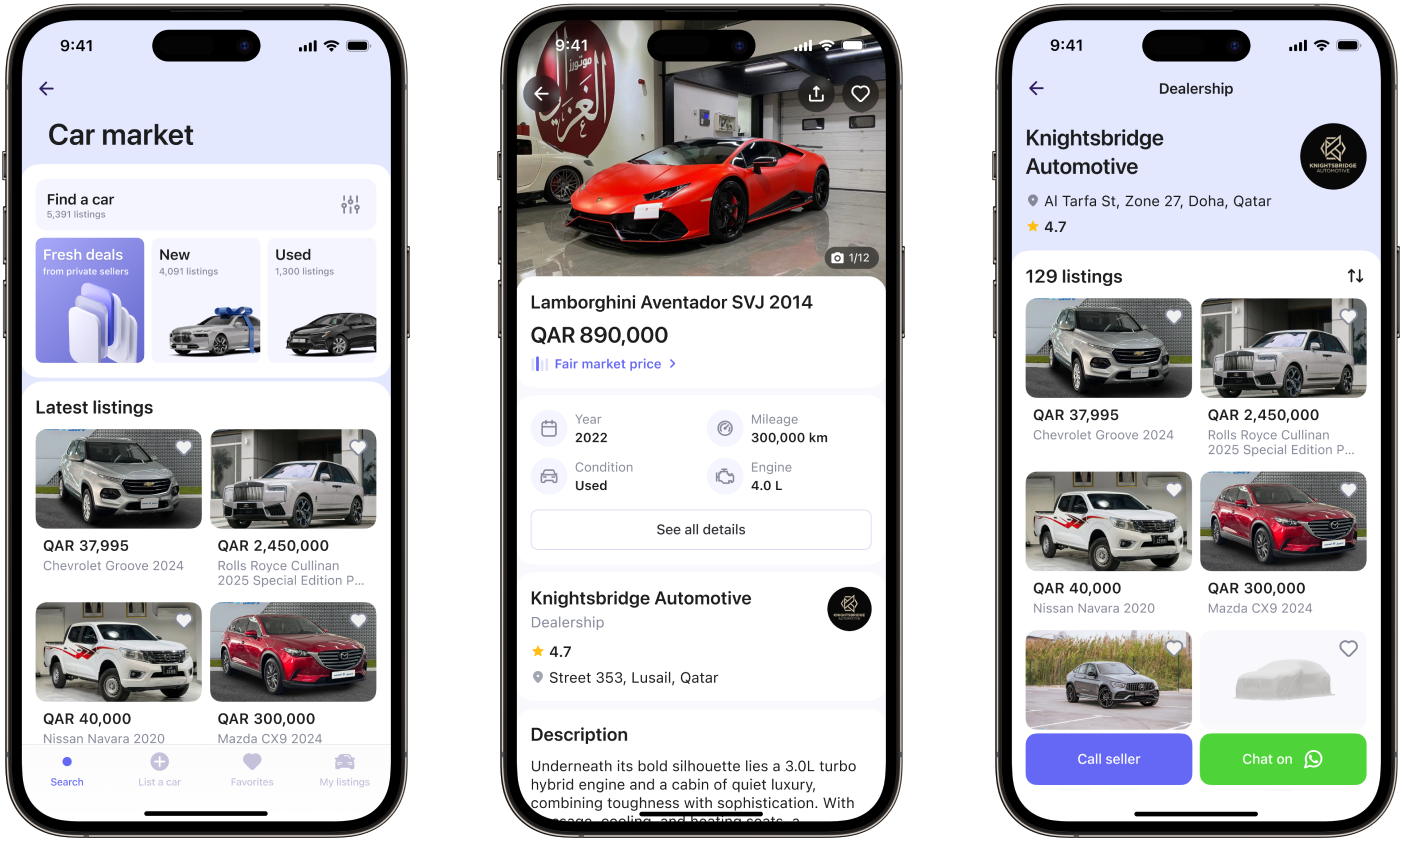
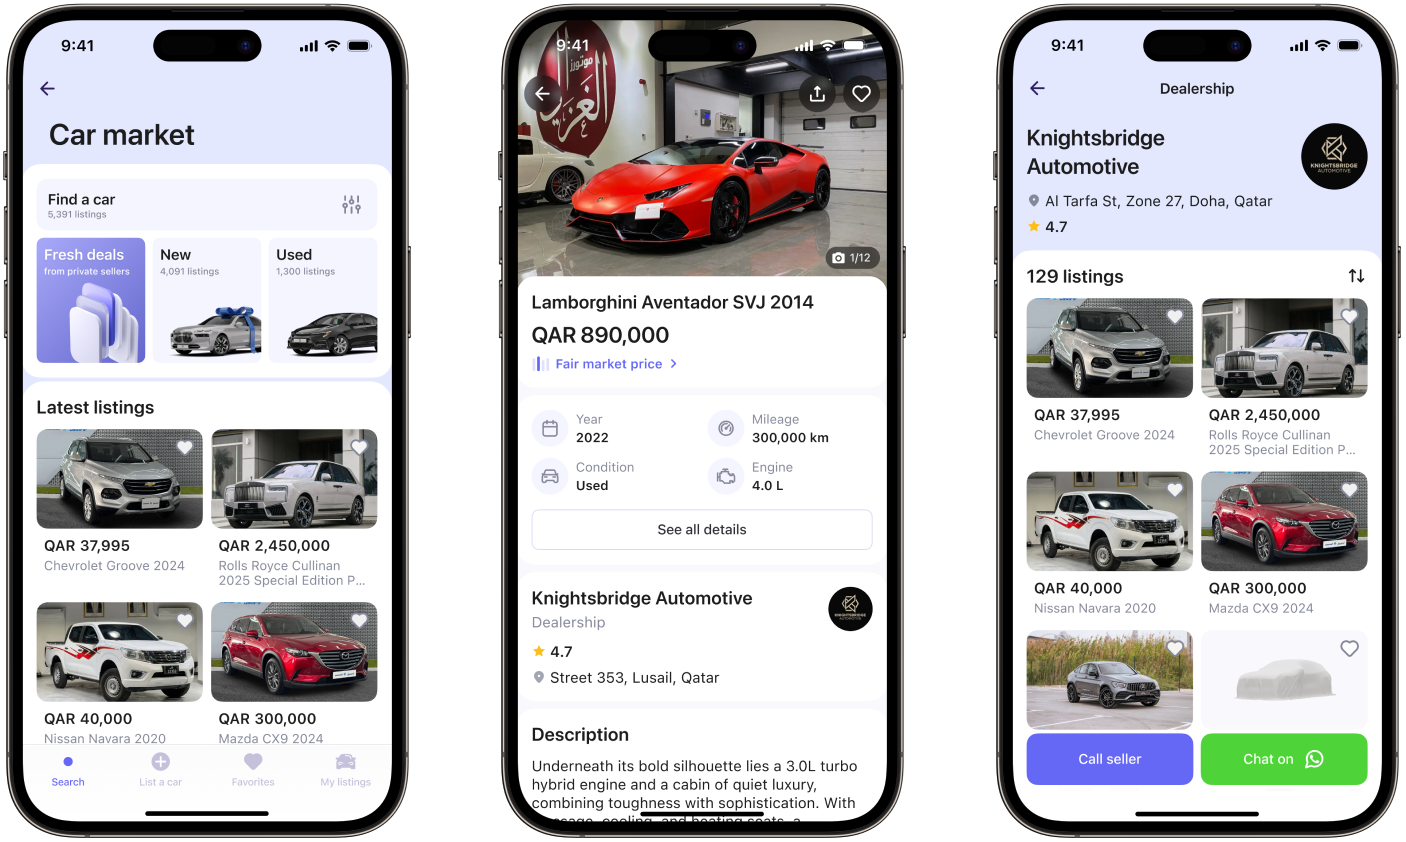
Add files via upload

diff --git a/index.html b/index.html
@@ -255,13 +255,13 @@
     <p class="statement">Designing complex B2B and B2C digital products for 8 years across e-commerce, marketplaces, insurance, and super apps. Previously at QIC, Skillbox, Ozon and TSUM. Open for work.</p>
 
     <ul class="jump">
-      <li><a href="#qic"><span>Work (QIC)</span>↓</a></li>
-      <li><a href="#skillbox"><span>Skillbox English</span>↓</a></li>
-      <li><a href="#ozon"><span>Ozon App</span>↓</a></li>
-      <li><a href="#tsum"><span>TSUM B2B apps</span>↓</a></li>
-      <li><a href="#pet"><span>Pet projects</span>↓</a></li>
-      <li><a href="#branding"><span>Branding Kalmykia</span>↓</a></li>
-      <li><a href="#about"><span>About me</span>↓</a></li>
+      <li><a href="#qic"><span>Work (QIC)</span></a></li>
+      <li><a href="#skillbox"><span>Skillbox English</span></a></li>
+      <li><a href="#ozon"><span>Ozon App</span></a></li>
+      <li><a href="#tsum"><span>TSUM B2B apps</span></a></li>
+      <li><a href="#pet"><span>Pet projects</span></a></li>
+      <li><a href="#branding"><span>Branding Kalmykia</span></a></li>
+      <li><a href="#about"><span>About me</span></a></li>
     </ul>
 
     <div class="ornament" aria-hidden="true"></div>
@@ -275,11 +275,11 @@
       <div class="cards">
         <a class="card" href="cases/qic-app.html">
           <div class="cover"><img src="images/Cover%20QIC%20App.png" alt="QIC App: Insurance 360 and City screens"></div>
-          <h4><span>QIC App</span> ↗</h4><p>Insurance super app · Product design</p>
+          <h4><span>QIC App</span></h4><p>Insurance super app · Product design</p>
         </a>
         <div class="card">
           <a href="https://qic.online/en/market" target="_blank" rel="noopener"><div class="cover"><img src="images/Cover%20QIC%20online%20market.png" alt="qic.online market landing page"></div></a>
-          <h4 class="links"><a href="https://qic.online/en/market" target="_blank" rel="noopener"><span>qic.online market</span> ↗</a><a href="https://partner.qic.online/en" target="_blank" rel="noopener"><span>Partner portal</span> ↗</a></h4>
+          <h4 class="links"><a href="https://qic.online/en/market" target="_blank" rel="noopener"><span>qic.online market</span></a><a href="https://partner.qic.online/en" target="_blank" rel="noopener"><span>Partner portal</span></a></h4>
           <p>Marketplace · Product design</p>
         </div>
       </div>
@@ -290,7 +290,7 @@
       <div class="cards">
         <a class="card" href="https://eng.skillbox.ru/" target="_blank" rel="noopener">
           <div class="cover"><img src="images/Cover%20Skillbox.png" alt="Skillbox English video lesson interface" loading="lazy"></div>
-          <h4><span>Skillbox English</span> ↗</h4><p>EdTech · Product design</p>
+          <h4><span>Skillbox English</span></h4><p>EdTech · Product design</p>
         </a>
       </div>
     </div>
@@ -300,7 +300,7 @@
       <div class="cards">
         <a class="card" href="cases/ozon-app.html">
           <div class="cover"><img src="images/Cover%20OZON.png" alt="Ozon app screens" loading="lazy"></div>
-          <h4><span>Ozon App</span> ↗</h4><p>E-commerce · Product design</p>
+          <h4><span>Ozon App</span></h4><p>E-commerce · Product design</p>
         </a>
       </div>
     </div>
@@ -310,7 +310,7 @@
       <div class="cards">
         <a class="card" href="cases/tsum-b2b.html">
           <div class="cover"><img src="images/Cover%20TSUM.png" alt="TSUM Moscow cover" loading="lazy"></div>
-          <h4><span>B2B apps</span> ↗</h4><p>Retail · Internal tools</p>
+          <h4><span>B2B apps</span></h4><p>Retail · Internal tools</p>
         </a>
       </div>
     </div>
@@ -320,11 +320,11 @@
       <div class="cards">
         <a class="card" href="cases/clean-fight.html">
           <div class="cover"><img src="images/clean-fight.gif" alt="Clean Fight character" loading="lazy"></div>
-          <h4><span>Clean Fight</span> ↗</h4><p>Pet project · Product design</p>
+          <h4><span>Clean Fight</span></h4><p>Pet project · Product design</p>
         </a>
         <a class="card" href="https://apps.apple.com/us/app/%D1%85%D0%B0%D0%BB%D1%8C%D0%BC%D0%B3-%D0%BA%D0%B5%D0%BB%D0%BD/id797020738" target="_blank" rel="noopener">
           <div class="cover"><img src="images/Cover%20Khalmg%20keln%20app.png" alt="Khalmg Keln app: translator and alphabet screens" loading="lazy"></div>
-          <h4><span>Khalmg Keln App</span> ↗</h4><p>Kalmyk language app · Pet project</p>
+          <h4><span>Khalmg Keln App</span></h4><p>Kalmyk language app · Pet project</p>
         </a>
       </div>
     </div>
@@ -334,7 +334,7 @@
       <div class="cards">
         <a class="card" href="https://www.behance.net/gallery/41576351/Branding-of-the-Republic-of-Kalmykia" target="_blank" rel="noopener">
           <div class="cover"><img src="images/Cover%20Kalmykia.png" alt="Kalmykia branding: giant red tulip in the steppe" loading="lazy"></div>
-          <h4><span>Kalmykia</span> ↗</h4><p>Brand identity</p>
+          <h4><span>Kalmykia</span></h4><p>Brand identity</p>
         </a>
       </div>
     </div>

diff --git a/cases/qic-app.html b/cases/qic-app.html
@@ -26,7 +26,7 @@
 <main>
   <!-- 1. HERO: logo, title, one-line summary, meta, cover -->
   <section class="case-hero wrap">
-    <a class="back" href="../index.html#work">← All work</a>
+    <a class="back" href="../index.html#work">All work</a>
     <div class="case-title">
       <img src="../images/cases/qic-app/logo.png" alt="QIC logo">
       <h1>QIC App</h1>
@@ -81,7 +81,7 @@
         <p>Integrated car market listings and a car status widget to increase engagement, conversion, and daily app usage.</p>
       </div>
       <button class="open-gallery" data-index="0" data-src="../images/cases/qic-app/main-page.png" data-alt="QIC App main page with car status widget and car market listings">
-        <img src="../images/cases/qic-app/main-page.png" alt="" loading="lazy"><span>View screens →</span>
+        <img src="../images/cases/qic-app/main-page.png" alt="" loading="lazy"><span>View screens</span>
       </button>
     </article>
 
@@ -92,7 +92,7 @@
         <p>Built a full car marketplace with intuitive filtering, listing cards, and a unique price calculator that evaluates each car against current market prices.</p>
       </div>
       <button class="open-gallery" data-index="1" data-src="../images/cases/qic-app/marketplace.png" data-alt="Car marketplace screens: listing feed, car details with price evaluation, and search results">
-        <img src="../images/cases/qic-app/marketplace.png" alt="" loading="lazy"><span>View screens →</span>
+        <img src="../images/cases/qic-app/marketplace.png" alt="" loading="lazy"><span>View screens</span>
       </button>
     </article>
 
@@ -103,7 +103,7 @@
         <p>Designed the end-to-end listing creation flow — set the price, upload photos, complete vehicle details, and publish on QIC Market — with AI-powered photo moderation to ensure listing quality.</p>
       </div>
       <button class="open-gallery" data-index="2" data-src="../images/cases/qic-app/listing.png" data-alt="Listing creation flow: car details, description tags, photo upload and recommended market price">
-        <img src="../images/cases/qic-app/listing.png" alt="" loading="lazy"><span>View screens →</span>
+        <img src="../images/cases/qic-app/listing.png" alt="" loading="lazy"><span>View screens</span>
       </button>
     </article>
 
@@ -114,7 +114,7 @@
         <p>Integrated car preparation services — detailing, washing, and repairs — with in-app payment and end-to-end service status tracking.</p>
       </div>
       <button class="open-gallery" data-index="3" data-src="../images/cases/qic-app/prep.png" data-alt="Car preparation services: service selection, booking, payment and status tracking">
-        <img src="../images/cases/qic-app/prep.png" alt="" loading="lazy"><span>View screens →</span>
+        <img src="../images/cases/qic-app/prep.png" alt="" loading="lazy"><span>View screens</span>
       </button>
     </article>
 
@@ -125,7 +125,7 @@
         <p>Introduced paid listing promotion to increase visibility and help sellers sell their cars faster.</p>
       </div>
       <button class="open-gallery" data-index="4" data-src="../images/cases/qic-app/promotion.png" data-alt="My listings with Boost your listing banner and boost period selection sheet">
-        <img src="../images/cases/qic-app/promotion.png" alt="" loading="lazy"><span>View screens →</span>
+        <img src="../images/cases/qic-app/promotion.png" alt="" loading="lazy"><span>View screens</span>
       </button>
     </article>
   </section>
@@ -140,9 +140,8 @@
 
   <!-- 6. NEXT CASE -->
   <div class="wrap">
-    <a class="next" href="qic-online-market.html">
+    <a class="next" href="https://qic.online/en/market" target="_blank" rel="noopener">
       <div><span>Next case</span><strong>qic.online market</strong></div>
-      <span class="arrow">→</span>
     </a>
   </div>
 </main>
